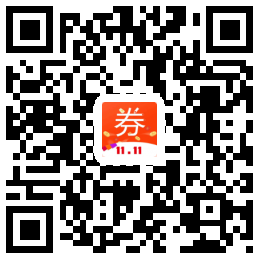
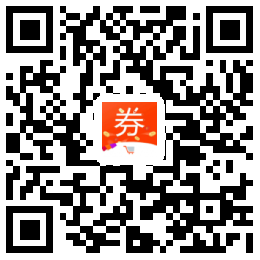
安卓下载

Changed region(s): [[0.0, 0.0, 0.9846, 0.9846]]

diff --git a/application/controllers/Test.php b/application/controllers/Test.php
@@ -6,7 +6,7 @@ class TestController extends Yaf_Controller_Abstract
     }
 
     function addPicAction(){
-        $remote_pic  = 'quangouv1.0.0app.apk';
+        $remote_pic  = 'quangouv1.1.0app.apk';
         if($this->getRequest()->isPost()) {
             $model = new CommonModel();
             if (!empty($_FILES['upload_file']) && $_FILES['upload_file']['error'] == 0) {
